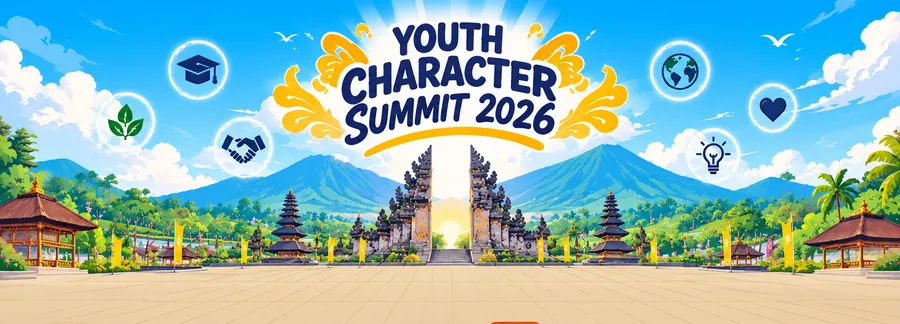
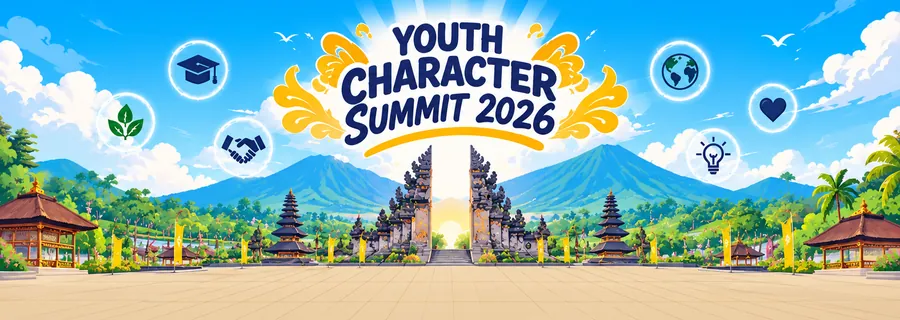
Festival: langit beranimasi ringan (sinar, kilau, burung) + pemicu cahaya dari judul YCS 2026 saat cari nama / klik harapan

diff --git a/assets/js/festival.js b/assets/js/festival.js
@@ -103,6 +103,9 @@
     let balonAktif = opsi.balonAktif ?? true;
     let area = { y0: 0, y1: 0, imgH: 0 };
     const balon = []; // {w, el, sampai, pin}
+    const efek = []; // cahaya dari judul ke warga: {w, t0}
+    const kilau = Array.from({ length: 22 }, (_, i) => { const r = acak(i * 7919 + 13); return { x: r(), y: r(), f: r() * 6.28, k: 0.8 + r() * 1.6, s: 0.6 + r() * 0.9 }; });
+    const burung = Array.from({ length: 3 }, (_, i) => ({ y: 0.1 + i * 0.07, v: 0.018 + i * 0.006, off: i * 0.37 }));
     latar.onload = () => { siapLatar = true; ukur(); };
     latar.src = (canvas.clientWidth > 700 ? LATAR.besar : LATAR.kecil);
 
@@ -113,7 +116,7 @@
       W = w; H = h;
       canvas.width = Math.round(w * dpr); canvas.height = Math.round(h * dpr);
       // Gambar latar selalu utuh selebar panggung (tidak dipotong); sisa tinggi diisi lanjutan plaza.
-      area.imgH = siapLatar ? W * latar.height / latar.width : W * 596 / 1654;
+      area.imgH = siapLatar ? W * latar.height / latar.width : W * 588 / 1654;
       area.y0 = Math.min(H * 0.8, area.imgH * 0.86);
       area.y1 = H * 0.975;
       gambar(performance.now());
@@ -186,6 +189,7 @@
       ctx.setTransform(dpr, 0, 0, dpr, 0, 0);
       ctx.clearRect(0, 0, W, H);
       gambarLatar();
+      gambarSuasana(t);
       const b = tinggiDasar();
       const urut = warga.slice().sort((p, q) => p.y - q.y);
       for (const w of urut) {
@@ -207,9 +211,99 @@
         ctx.strokeStyle = '#FFC93C'; ctx.lineWidth = 3;
         ctx.beginPath(); ctx.ellipse(l.x, l.kaki + l.h * 0.02, l.h * 0.32 * k, l.h * 0.09 * k, 0, 0, Math.PI * 2); ctx.stroke();
       }
+      gambarCahaya(t);
       aturBalon(t);
       if (opsi.onFrame) opsi.onFrame();
     }
+
+    // Titik pusat teks "Youth Character Summit 2026" pada gambar latar.
+    const judul = () => ({ x: W * 0.5, y: area.imgH * 0.27, r: area.imgH * 0.24 });
+
+    /* ---------- Suasana langit: sinar berputar, judul berpendar, kilau, burung (ringan) ---------- */
+    function gambarSuasana(t) {
+      if (gerakMinim) return;
+      const j = judul(), d = t / 1000;
+      ctx.save();
+      ctx.beginPath(); ctx.rect(0, 0, W, area.imgH * 0.78); ctx.clip();
+      ctx.globalCompositeOperation = 'lighter';
+      const panjang = area.imgH * 1.1;
+      for (let i = 0; i < 12; i++) {
+        const a = d * 0.06 + i * Math.PI / 6;
+        const g = ctx.createRadialGradient(j.x, j.y, j.r * 0.4, j.x, j.y, panjang);
+        g.addColorStop(0, 'rgba(255,240,190,.16)'); g.addColorStop(1, 'rgba(255,240,190,0)');
+        ctx.fillStyle = g;
+        ctx.beginPath(); ctx.moveTo(j.x, j.y);
+        ctx.arc(j.x, j.y, panjang, a - 0.07, a + 0.07); ctx.closePath(); ctx.fill();
+      }
+      const denyut = 0.12 + 0.07 * Math.sin(d * 1.6);
+      const gl = ctx.createRadialGradient(j.x, j.y, 0, j.x, j.y, j.r * 1.4);
+      gl.addColorStop(0, `rgba(255,236,170,${denyut})`); gl.addColorStop(1, 'rgba(255,236,170,0)');
+      ctx.fillStyle = gl; ctx.fillRect(j.x - j.r * 1.5, j.y - j.r * 1.5, j.r * 3, j.r * 3);
+      for (const k of kilau) {
+        const a = Math.max(0, Math.sin(d * k.k + k.f));
+        if (a < 0.05) continue;
+        const x = k.x * W, y = k.y * area.imgH * 0.62, r = (2 + 4 * a) * k.s * (W / 1200 + 0.4);
+        ctx.fillStyle = `rgba(255,250,220,${0.75 * a})`;
+        ctx.beginPath(); ctx.moveTo(x, y - r * 2); ctx.lineTo(x + r * 0.4, y - r * 0.4); ctx.lineTo(x + r * 2, y); ctx.lineTo(x + r * 0.4, y + r * 0.4);
+        ctx.lineTo(x, y + r * 2); ctx.lineTo(x - r * 0.4, y + r * 0.4); ctx.lineTo(x - r * 2, y); ctx.lineTo(x - r * 0.4, y - r * 0.4); ctx.closePath(); ctx.fill();
+      }
+      ctx.globalCompositeOperation = 'source-over';
+      ctx.strokeStyle = 'rgba(255,255,255,.9)'; ctx.lineWidth = Math.max(1.5, W / 700); ctx.lineCap = 'round';
+      for (const bd of burung) {
+        const x = ((d * bd.v + bd.off) % 1.2 - 0.1) * W, y = bd.y * area.imgH + Math.sin(d + bd.off * 9) * 6;
+        const s = W / 110, kepak = Math.sin(d * 9 + bd.off * 20) * 0.5;
+        ctx.beginPath(); ctx.moveTo(x - s, y - s * (0.3 + kepak)); ctx.quadraticCurveTo(x - s * 0.4, y - s * 0.1, x, y); ctx.quadraticCurveTo(x + s * 0.4, y - s * 0.1, x + s, y - s * (0.3 + kepak)); ctx.stroke();
+      }
+      ctx.restore();
+    }
+
+    /* ---------- Pemicu: cahaya meluncur dari teks judul ke warga yang dicari / diklik ---------- */
+    function gambarCahaya(t) {
+      for (let i = efek.length - 1; i >= 0; i--) {
+        const e = efek[i], u = (t - e.t0) / 1800;
+        if (u > 1) { efek.splice(i, 1); continue; }
+        const l = e.w.layar;
+        if (!l) continue;
+        const j = judul(), tx = l.x, ty = l.y + l.h * 0.15;
+        ctx.save();
+        ctx.globalCompositeOperation = 'lighter';
+        // 1) judul menyala
+        const nyala = Math.max(0, 1 - u / 0.45);
+        if (nyala > 0) {
+          const g = ctx.createRadialGradient(j.x, j.y, 0, j.x, j.y, j.r * (1.2 + u * 2));
+          g.addColorStop(0, `rgba(255,245,200,${0.85 * nyala})`); g.addColorStop(0.5, `rgba(255,214,107,${0.45 * nyala})`); g.addColorStop(1, 'rgba(255,214,107,0)');
+          ctx.fillStyle = g; ctx.fillRect(0, 0, W, area.imgH);
+        }
+        // 2) berkas cahaya melengkung dari judul ke kepala warga
+        const p = Math.min(1, Math.max(0, (u - 0.12) / 0.5));
+        if (p > 0 && u < 0.95) {
+          const cx = (j.x + tx) / 2 + (tx > j.x ? -1 : 1) * W * 0.06, cy = Math.min(j.y, ty) + (ty - j.y) * 0.25;
+          const titik = (q) => ({ x: (1 - q) * (1 - q) * j.x + 2 * (1 - q) * q * cx + q * q * tx, y: (1 - q) * (1 - q) * j.y + 2 * (1 - q) * q * cy + q * q * ty });
+          const pudar = u > 0.7 ? 1 - (u - 0.7) / 0.25 : 1;
+          ctx.lineCap = 'round';
+          for (const [lebar, warna] of [[14, `rgba(255,200,80,${0.22 * pudar})`], [6, `rgba(255,236,160,${0.6 * pudar})`], [2.5, `rgba(255,255,255,${0.95 * pudar})`]]) {
+            ctx.strokeStyle = warna; ctx.lineWidth = lebar * (W / 1200 + 0.5);
+            ctx.beginPath();
+            for (let q = Math.max(0, p - 0.45); q <= p + 0.001; q += 0.02) { const pt = titik(q); if (q === Math.max(0, p - 0.45)) ctx.moveTo(pt.x, pt.y); else ctx.lineTo(pt.x, pt.y); }
+            ctx.stroke();
+          }
+          const ujung = titik(p);
+          const gu = ctx.createRadialGradient(ujung.x, ujung.y, 0, ujung.x, ujung.y, 26);
+          gu.addColorStop(0, `rgba(255,255,255,${pudar})`); gu.addColorStop(1, 'rgba(255,220,120,0)');
+          ctx.fillStyle = gu; ctx.beginPath(); ctx.arc(ujung.x, ujung.y, 26, 0, Math.PI * 2); ctx.fill();
+        }
+        // 3) ledakan cahaya kecil di sekitar warga
+        if (u > 0.6) {
+          const v = (u - 0.6) / 0.4;
+          ctx.strokeStyle = `rgba(255,214,107,${0.9 * (1 - v)})`; ctx.lineWidth = 3;
+          ctx.beginPath(); ctx.arc(tx, ty, l.h * (0.3 + v * 1.1), 0, Math.PI * 2); ctx.stroke();
+          ctx.fillStyle = `rgba(255,250,215,${1 - v})`;
+          for (let k = 0; k < 10; k++) { const a = k * Math.PI / 5 + e.t0; const rr = l.h * (0.35 + v * 1.3); ctx.beginPath(); ctx.arc(tx + Math.cos(a) * rr, ty + Math.sin(a) * rr * 0.8, 2.5 * (1 - v) + 1, 0, Math.PI * 2); ctx.fill(); }
+        }
+        ctx.restore();
+      }
+    }
+    function cahaya(w) { efek.length = 0; efek.push({ w, t0: performance.now() }); mulai(); }
 
     /* ---------- Balon kata: banyak sekaligus, tidak pernah saling menutupi ---------- */
     const maksBalon = () => (W >= 1000 ? 6 : W >= 700 ? 4 : 2);
@@ -219,6 +313,8 @@
       el.setAttribute('aria-hidden', 'true');
       el.innerHTML = `<span class="fest-b__ava"></span><span class="fest-b__isi"><strong>${esc(w.n)}</strong><em>${esc(w.k)}</em>${w.p ? `<small>${esc(w.p)}</small>` : ''}</span>${label ? `<span class="fest-b__tag">${esc(label)}</span>` : ''}`;
       api.gambarAvatar(el.querySelector('.fest-b__ava'), w);
+      // Klik balon harapan = memicu cahaya dari judul ke orangnya.
+      el.addEventListener('click', () => { if (!pin) api.sorot(w, 8000, ''); });
       wadah.append(el);
       const bl = { w, el, pin, sampai: performance.now() + (pin ? 9000 : 4200 + Math.random() * 1500), lebar: el.offsetWidth, tinggi: el.offsetHeight };
       requestAnimationFrame(() => el.classList.add('is-on'));
@@ -279,6 +375,18 @@
     }
     const mulai = () => { if (!raf) raf = requestAnimationFrame(putar); };
 
+    canvas.addEventListener('click', (ev) => {
+      if (!balonAktif) return;
+      const r = canvas.getBoundingClientRect(), x = ev.clientX - r.left, y = ev.clientY - r.top;
+      let pilih = null, terbaik = Infinity;
+      for (const w of warga) {
+        const l = w.layar;
+        if (!l || Math.abs(x - l.x) > l.h * 0.35 || y < l.y - 6 || y > l.kaki + 6) continue;
+        const dd = Math.abs(x - l.x) + Math.abs(y - (l.y + l.kaki) / 2) * 0.3 - l.kaki * 0.001;
+        if (dd < terbaik) { terbaik = dd; pilih = w; }
+      }
+      if (pilih) api.sorot(pilih, 8000, '');
+    });
     new ResizeObserver(ukur).observe(canvas);
     if ('IntersectionObserver' in window) new IntersectionObserver(([e]) => { terlihat = e.isIntersecting; if (terlihat) mulai(); }).observe(canvas);
     document.addEventListener('visibilitychange', () => { if (!document.hidden) mulai(); });
@@ -313,8 +421,10 @@
         bl.sampai = performance.now() + ms;
         w.diam = true;
         balon.push(bl);
+        cahaya(w);
         mulai();
       },
+      cahaya,
       setBalon(on) { balonAktif = on; if (!on) balon.forEach((b) => { b.sampai = 0; }); },
       posisi(w) { return w && w.layar ? { x: w.layar.x, y: w.layar.y, h: w.layar.h, W, H } : null; },
       ciri,

diff --git a/index.html b/index.html
@@ -722,7 +722,10 @@
     @media (min-width: 40rem) { .fest__stage { aspect-ratio: 1654 / 951; } }
     .fest__stage > canvas { position: absolute; inset: 0; width: 100%; height: 100%; transition: filter 700ms var(--ease); }
     .fest.is-locked .fest__stage > canvas { filter: blur(7px) saturate(1.15); }
-    .fest-b { position: absolute; z-index: 3; left: 0; top: 0; display: flex; gap: .5rem; align-items: center; max-width: 13rem; padding: .375rem .75rem .375rem .375rem; border: 2.5px solid #FFC93C; border-radius: .875rem; background: #FFFBF3; color: var(--ink); box-shadow: 0 10px 22px -10px rgb(0 0 0 / .45); opacity: 0; transition: opacity 300ms var(--ease); pointer-events: none; will-change: transform; }
+    .fest-b { position: absolute; z-index: 3; left: 0; top: 0; display: flex; gap: .5rem; align-items: center; max-width: 13rem; padding: .375rem .75rem .375rem .375rem; border: 2.5px solid #FFC93C; border-radius: .875rem; background: #FFFBF3; color: var(--ink); box-shadow: 0 10px 22px -10px rgb(0 0 0 / .45); opacity: 0; transition: opacity 300ms var(--ease); cursor: pointer; will-change: transform; }
+    .fest-b:not(.is-on) { pointer-events: none; }
+    .fest-b.is-on:hover { border-color: var(--cta); }
+    .fest:not(.is-locked) .fest__stage > canvas { cursor: pointer; }
     .fest-b.is-on { opacity: 1; }
     .fest-b::after { content: ""; position: absolute; left: var(--ekor, 50%); bottom: -8px; width: 13px; height: 13px; background: #FFFBF3; border-right: 2.5px solid #FFC93C; border-bottom: 2.5px solid #FFC93C; transform: translateX(-50%) rotate(45deg); }
     .fest-b.is-pin { z-index: 4; max-width: 16rem; padding: .5rem .875rem .5rem .5rem; border-width: 3px; border-color: var(--cta); }
@@ -2917,6 +2920,7 @@
     function bukaFestival() {
       fest.classList.remove('is-locked');
       if (festApi) festApi.setBalon(true);
+      if (!$('#fest-info').textContent) $('#fest-info').textContent = 'Tips: ketuk balon harapan atau salah satu warga untuk menyalakan cahaya dari Youth Character Summit 2026.';
       $('#fest-canvas').setAttribute('aria-label', 'Festival YCS di Bali. Gunakan kolom pencarian untuk menemukan namamu.');
     }
     if (saya) bukaFestival();
